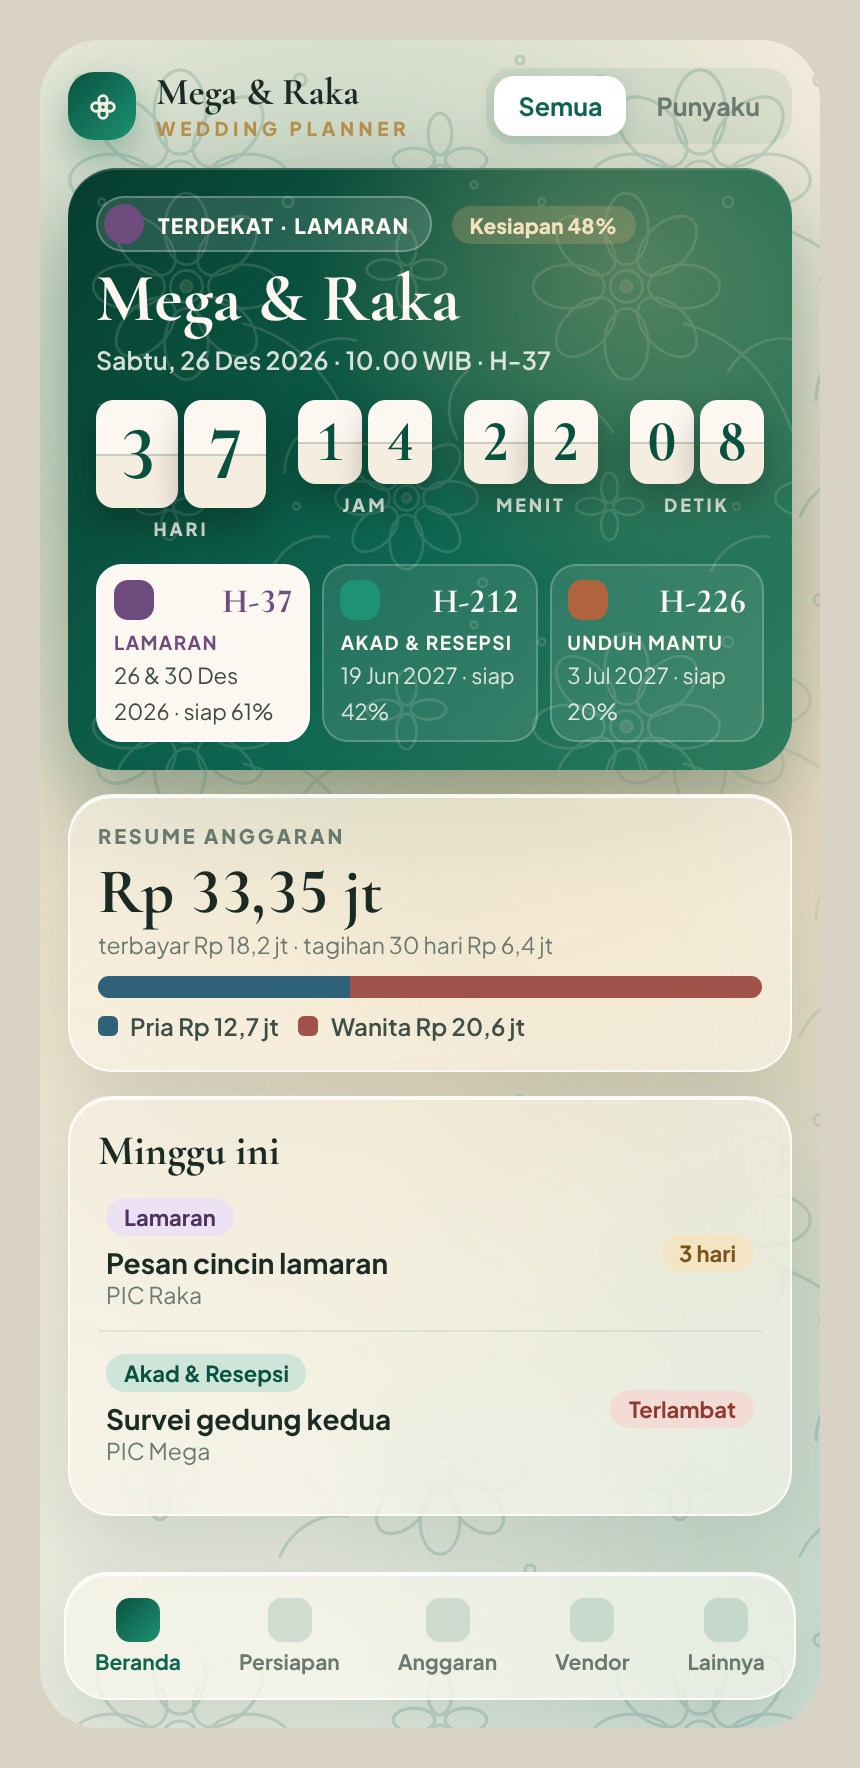
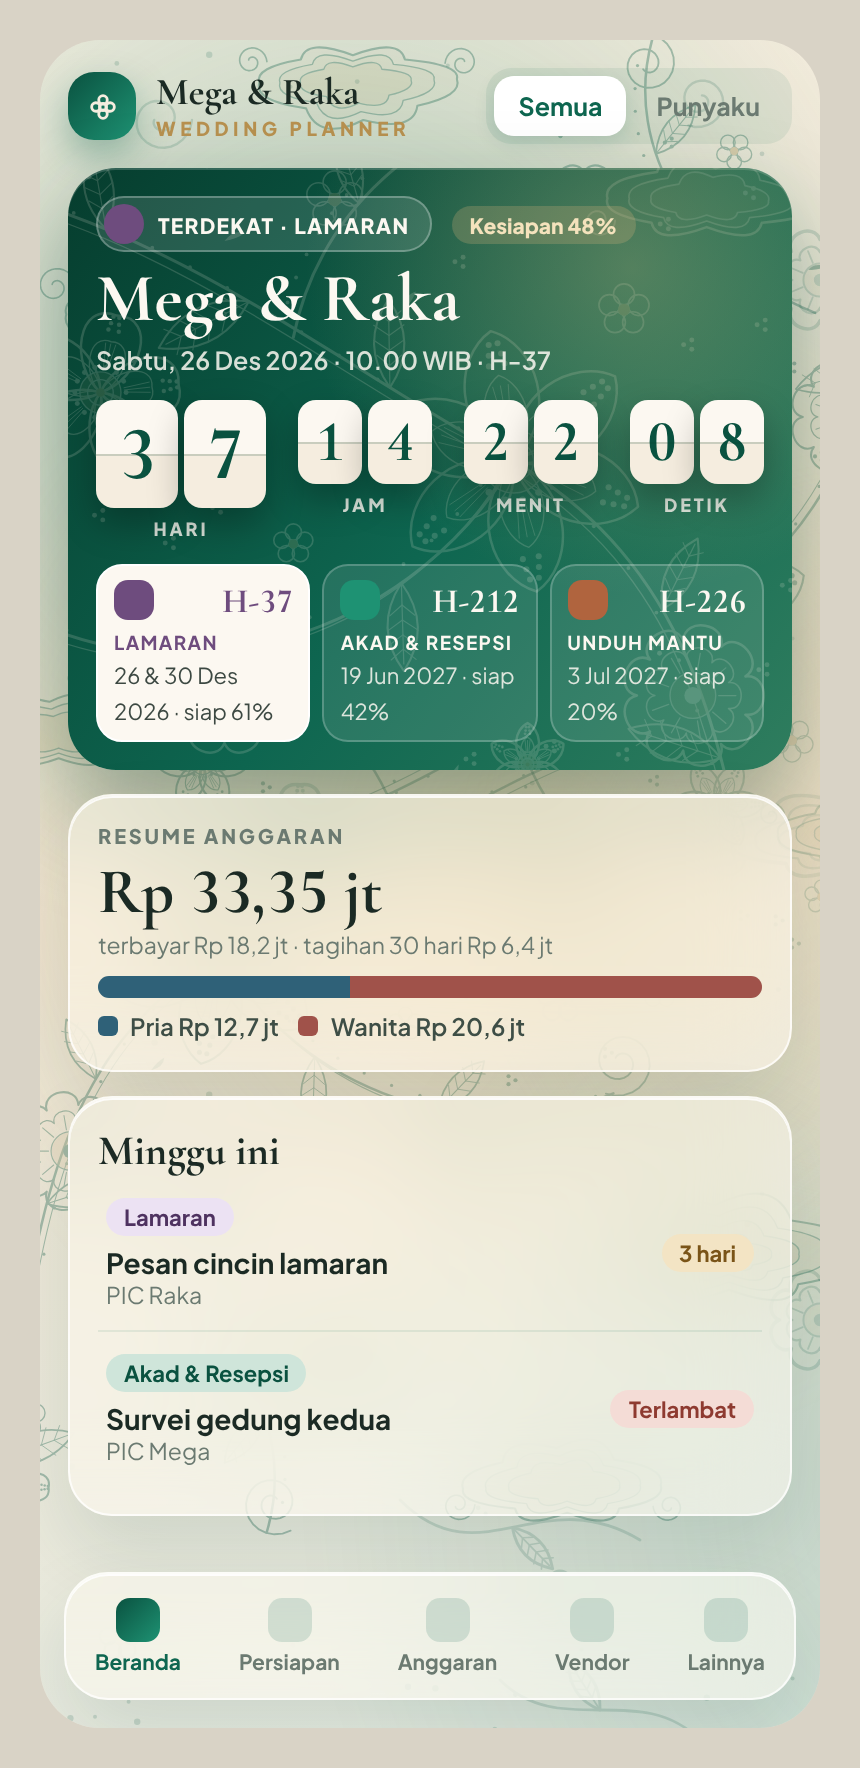
Mockup v5 Emerald: motif batik floral detail (mega mendung, sulur, bunga isen-isen)
Claude-Session: https://claude.ai/code/session_01FXbHuBUEcwiKtJ8siQhxjS

diff --git a/design-mockup/v5-emerald/emerald.css b/design-mockup/v5-emerald/emerald.css
@@ -14,8 +14,13 @@ body{margin:0;font-family:'Plus Jakarta Sans',system-ui,sans-serif;color:var(--i
 .app{position:relative;overflow:hidden;display:flex;gap:0;min-height:100%;
   background:linear-gradient(160deg,#F7F0E2 0%,#EFE5D2 45%,#E6EDE4 100%)}
 /* lapisan latar: motif batik → lapisan warna transparan */
-.app::before{content:"";position:absolute;inset:0;pointer-events:none;opacity:.17;
-  background-image:url("batik.svg");background-size:260px 260px}
+.app::before{content:"";position:absolute;inset:0;pointer-events:none;opacity:.16;
+  background-image:url("batik.svg");background-size:520px 520px}
+/* ornamen floral besar di sudut (di bawah lapisan warna) */
+.orn{position:absolute;pointer-events:none;width:900px;height:900px;background:url("batik-ornamen.svg") no-repeat;background-size:contain;opacity:.32}
+.orn.bl{left:-60px;bottom:-80px}
+.orn.tr{right:-80px;top:-90px;transform:scale(-1,-1)}
+.ph .orn{width:520px;height:520px}.ph .orn.bl{left:-60px;bottom:40px}.ph .orn.tr{right:-90px;top:-60px}
 .layer{position:absolute;border-radius:50%;pointer-events:none;filter:blur(10px)}
 .l1{left:-160px;top:-140px;width:620px;height:620px;background:radial-gradient(circle,rgba(20,122,95,.30),transparent 68%)}
 .l2{right:-180px;top:80px;width:640px;height:640px;background:radial-gradient(circle,rgba(214,181,122,.38),transparent 68%)}
@@ -71,7 +76,7 @@ body{margin:0;font-family:'Plus Jakarta Sans',system-ui,sans-serif;color:var(--i
 /* hitung mundur */
 .hero{position:relative;overflow:hidden;border-radius:24px;color:var(--be0);padding:18px 22px;display:grid;grid-template-columns:minmax(0,1fr) auto minmax(250px,290px);gap:20px;align-items:center;
   background:linear-gradient(130deg,var(--em9) 0%,var(--em7) 55%,#2F7D5E 100%);box-shadow:0 20px 44px rgba(6,61,46,.35),inset 0 1px 0 rgba(255,255,255,.18)}
-.hero::before{content:"";position:absolute;inset:0;background-image:url("batik-light.svg");background-size:220px;opacity:.14;pointer-events:none}
+.hero::before{content:"";position:absolute;right:-40px;top:-60px;width:620px;height:620px;transform:scale(-1,1);background:url("batik-ornamen-light.svg") no-repeat;background-size:contain;opacity:.16;pointer-events:none}
 .hero::after{content:"";position:absolute;right:-90px;top:-120px;width:340px;height:340px;border-radius:50%;background:radial-gradient(circle,rgba(214,181,122,.35),transparent 68%)}
 .hero>*{position:relative;z-index:1}
 .nx{display:inline-flex;align-items:center;gap:7px;border-radius:999px;padding:3px 10px 3px 3px;font-size:10.5px;font-weight:800;letter-spacing:.06em;background:rgba(255,255,255,.12);border:1px solid rgba(255,255,255,.28)}
@@ -100,7 +105,7 @@ body{margin:0;font-family:'Plus Jakarta Sans',system-ui,sans-serif;color:var(--i
 .acards{display:grid;grid-template-columns:repeat(3,minmax(0,1fr));gap:14px;align-items:start}
 .acard{border-radius:22px;overflow:hidden}
 .ah{padding:15px 17px;display:flex;flex-direction:column;gap:5px;position:relative}
-.ah::before{content:"";position:absolute;inset:0;background-image:url("batik.svg");background-size:180px;opacity:.12}
+.ah::before{content:"";position:absolute;right:-30px;top:-40px;width:260px;height:260px;transform:scale(-1,1);background:url("batik-ornamen.svg") no-repeat;background-size:contain;opacity:.16}
 .ah>*{position:relative}
 .ab{padding:13px 16px 16px;display:flex;flex-direction:column;gap:9px}
 .t-lam{background:linear-gradient(140deg,rgba(236,226,243,.92),rgba(206,186,222,.82));color:#3F2A4E}

diff --git a/design-mockup/v5-emerald/Beranda-desktop.html b/design-mockup/v5-emerald/Beranda-desktop.html
@@ -1,7 +1,7 @@
 <!doctype html><html lang="id"><head><meta charset="utf-8"><meta name="viewport" content="width=device-width,initial-scale=1">
 <title>Emerald · Beranda</title><link rel="preconnect" href="https://fonts.googleapis.com">
 <link href="https://fonts.googleapis.com/css2?family=Cormorant+Garamond:wght@600;700&family=Plus+Jakarta+Sans:wght@400;500;600;700;800&display=swap" rel="stylesheet">
-<link rel="stylesheet" href="emerald.css"></head><body><div class="app" style="width:1440px;min-height:1080px"><span class="layer l1"></span><span class="layer l2"></span><span class="layer l3"></span><span class="layer l4"></span><aside class="side glass">
+<link rel="stylesheet" href="emerald.css"></head><body><div class="app" style="width:1440px;min-height:1080px"><span class="orn tr"></span><span class="orn bl"></span><span class="layer l1"></span><span class="layer l2"></span><span class="layer l3"></span><span class="layer l4"></span><aside class="side glass">
 <div class="brand"><div class="logo"><svg width="20" height="20" viewBox="0 0 24 24" fill="none" stroke="currentColor" stroke-width="2" stroke-linecap="round" stroke-linejoin="round"><circle cx="12" cy="12" r="2.5"/><path d="M12 4a3 3 0 010 6 3 3 0 010-6zM12 14a3 3 0 010 6 3 3 0 010-6zM4 12a3 3 0 016 0 3 3 0 01-6 0zM14 12a3 3 0 016 0 3 3 0 01-6 0z"/></svg></div><div><div class="bn">Wedding Planner</div><div class="by">by Wanncch</div></div></div>
 <nav class="nav"><a class="on" href="#"><svg width="16" height="16" viewBox="0 0 24 24" fill="none" stroke="currentColor" stroke-width="2" stroke-linecap="round" stroke-linejoin="round"><path d="M3 11l9-7 9 7v9H3z"/></svg>Beranda</a></nav>
 <div class="between" style="padding:6px 8px 0"><span class="lbl">Acara</span><span class="mut"><svg width="14" height="14" viewBox="0 0 24 24" fill="none" stroke="currentColor" stroke-width="2" stroke-linecap="round" stroke-linejoin="round"><path d="M4 20l4-1 11-11-3-3L5 16z"/></svg></span></div>

diff --git a/design-mockup/v5-emerald/Anggaran-desktop.html b/design-mockup/v5-emerald/Anggaran-desktop.html
@@ -1,7 +1,7 @@
 <!doctype html><html lang="id"><head><meta charset="utf-8"><meta name="viewport" content="width=device-width,initial-scale=1">
 <title>Emerald · Anggaran</title><link rel="preconnect" href="https://fonts.googleapis.com">
 <link href="https://fonts.googleapis.com/css2?family=Cormorant+Garamond:wght@600;700&family=Plus+Jakarta+Sans:wght@400;500;600;700;800&display=swap" rel="stylesheet">
-<link rel="stylesheet" href="emerald.css"></head><body><div class="app" style="width:1440px;min-height:900px"><span class="layer l1"></span><span class="layer l2"></span><span class="layer l3"></span><span class="layer l4"></span><aside class="side glass">
+<link rel="stylesheet" href="emerald.css"></head><body><div class="app" style="width:1440px;min-height:900px"><span class="orn tr"></span><span class="orn bl"></span><span class="layer l1"></span><span class="layer l2"></span><span class="layer l3"></span><span class="layer l4"></span><aside class="side glass">
 <div class="brand"><div class="logo"><svg width="20" height="20" viewBox="0 0 24 24" fill="none" stroke="currentColor" stroke-width="2" stroke-linecap="round" stroke-linejoin="round"><circle cx="12" cy="12" r="2.5"/><path d="M12 4a3 3 0 010 6 3 3 0 010-6zM12 14a3 3 0 010 6 3 3 0 010-6zM4 12a3 3 0 016 0 3 3 0 01-6 0zM14 12a3 3 0 016 0 3 3 0 01-6 0z"/></svg></div><div><div class="bn">Wedding Planner</div><div class="by">by Wanncch</div></div></div>
 <nav class="nav"><a href="#"><svg width="16" height="16" viewBox="0 0 24 24" fill="none" stroke="currentColor" stroke-width="2" stroke-linecap="round" stroke-linejoin="round"><path d="M3 11l9-7 9 7v9H3z"/></svg>Beranda</a></nav>
 <div class="between" style="padding:6px 8px 0"><span class="lbl">Acara</span><span class="mut"><svg width="14" height="14" viewBox="0 0 24 24" fill="none" stroke="currentColor" stroke-width="2" stroke-linecap="round" stroke-linejoin="round"><path d="M4 20l4-1 11-11-3-3L5 16z"/></svg></span></div>

diff --git a/design-mockup/v5-emerald/Beranda-hp.html b/design-mockup/v5-emerald/Beranda-hp.html
@@ -1,7 +1,7 @@
 <!doctype html><html lang="id"><head><meta charset="utf-8"><meta name="viewport" content="width=device-width,initial-scale=1">
 <title>Emerald · HP</title><link rel="preconnect" href="https://fonts.googleapis.com">
 <link href="https://fonts.googleapis.com/css2?family=Cormorant+Garamond:wght@600;700&family=Plus+Jakarta+Sans:wght@400;500;600;700;800&display=swap" rel="stylesheet">
-<link rel="stylesheet" href="emerald.css"></head><body><div style="padding:20px;background:#d9d3c6;display:inline-block"><div class="app ph"><span class="layer l1"></span><span class="layer l2"></span><span class="layer l3"></span><span class="layer l4"></span><main class="main">
+<link rel="stylesheet" href="emerald.css"></head><body><div style="padding:20px;background:#d9d3c6;display:inline-block"><div class="app ph"><span class="orn tr"></span><span class="orn bl"></span><span class="layer l1"></span><span class="layer l2"></span><span class="layer l3"></span><span class="layer l4"></span><main class="main">
 <div class="between"><div class="row"><div class="logo" style="width:34px;height:34px"><svg width="17" height="17" viewBox="0 0 24 24" fill="none" stroke="currentColor" stroke-width="2" stroke-linecap="round" stroke-linejoin="round"><circle cx="12" cy="12" r="2.5"/><path d="M12 4a3 3 0 010 6 3 3 0 010-6zM12 14a3 3 0 010 6 3 3 0 010-6zM4 12a3 3 0 016 0 3 3 0 01-6 0zM14 12a3 3 0 016 0 3 3 0 01-6 0z"/></svg></div><div><div class="bn" style="font-size:19px">Mega &amp; Raka</div><div class="by">Wedding Planner</div></div></div><span class="seg"><b class="on">Semua</b><b>Punyaku</b></span></div>
 <section class="hero">
 <div><div class="row"><span class="nx"><i></i>TERDEKAT · LAMARAN</span><span class="rdy">Kesiapan 48%</span></div>

diff --git a/design-mockup/v5-emerald/batik_gen.py b/design-mockup/v5-emerald/batik_gen.py
@@ -1,0 +1,159 @@
+import math, random, sys
+OUT = sys.argv[1]
+def f(x): return f'{x:.1f}'
+class S:
+    def __init__(s, line, acc): s.o=[]; s.line=line; s.acc=acc
+    def add(s, x): s.o.append(x)
+def rot(x,y,a,cx=0,cy=0):
+    c,si=math.cos(a),math.sin(a); return cx+x*c-y*si, cy+x*si+y*c
+def petal_path(cx,cy,ang,L,W,shape='point'):
+    pts=[(0,0),(W,-L*.30),(W*.75,-L*.85),(0,-L),(-W*.75,-L*.85),(-W,-L*.30),(0,0)] if shape=='point' else [(0,0),(W*1.05,-L*.25),(W*1.15,-L*1.0),(0,-L*.92),(-W*1.15,-L*1.0),(-W*1.05,-L*.25),(0,0)]
+    p=[rot(x,y,ang,cx,cy) for x,y in pts]
+    return f'M{f(p[0][0])} {f(p[0][1])}C{f(p[1][0])} {f(p[1][1])} {f(p[2][0])} {f(p[2][1])} {f(p[3][0])} {f(p[3][1])}C{f(p[4][0])} {f(p[4][1])} {f(p[5][0])} {f(p[5][1])} {f(p[6][0])} {f(p[6][1])}Z'
+def flower(s,cx,cy,R,n=6,rot0=0,shape='point'):
+    a0=math.radians(rot0)
+    for i in range(n):
+        a=a0+2*math.pi*i/n
+        s.add(f'<path d="{petal_path(cx,cy,a,R,R*.42,shape)}" stroke-width="1.8"/>')
+        s.add(f'<path d="{petal_path(cx,cy,a,R*.66,R*.25,shape)}" stroke-width="1"/>')
+        for t in (.74,.82,.9):  # titik isen-isen di ujung kelopak
+            for side in (-1,1):
+                x,y=rot(side*R*.17*(1.1-t),-R*t,a,cx,cy); s.add(f'<circle cx="{f(x)}" cy="{f(y)}" r="{R*.018+.5:.1f}" fill="{s.line}" stroke="none"/>')
+        for sd in (-.5,0,.5):
+            p1=rot(sd*R*.05,-R*.28,a,cx,cy); p2=rot(sd*R*.12,-R*.58,a,cx,cy)
+            s.add(f'<path d="M{f(p1[0])} {f(p1[1])}L{f(p2[0])} {f(p2[1])}" stroke-width=".7"/>')
+    s.add(f'<circle cx="{f(cx)}" cy="{f(cy)}" r="{f(R*.24)}" fill="{s.acc}" fill-opacity=".35"/>')
+    s.add(f'<circle cx="{f(cx)}" cy="{f(cy)}" r="{f(R*.15)}"/>')
+    for i in range(14):
+        a=2*math.pi*i/14; s.add(f'<circle cx="{f(cx+R*.3*math.cos(a))}" cy="{f(cy+R*.3*math.sin(a))}" r="{R*.02+.6:.1f}" fill="{s.line}" stroke="none"/>')
+    s.add(f'<circle cx="{f(cx)}" cy="{f(cy)}" r="{f(R*.05)}" fill="{s.acc}" stroke="none"/>')
+def scallop(s,cx,cy,R,n=8):
+    # bunga bergerigi (kelopak bulat berlapis)
+    pts=[]
+    for k,(rr,w) in enumerate(((R,1.8),(R*.68,1.1))):
+        d=''
+        for i in range(n):
+            a1=2*math.pi*i/n; a2=2*math.pi*(i+1)/n; am=(a1+a2)/2
+            x1,y1=cx+rr*.78*math.cos(a1),cy+rr*.78*math.sin(a1); x2,y2=cx+rr*.78*math.cos(a2),cy+rr*.78*math.sin(a2)
+            c1=(cx+rr*1.12*math.cos(am-.28),cy+rr*1.12*math.sin(am-.28)); c2=(cx+rr*1.12*math.cos(am+.28),cy+rr*1.12*math.sin(am+.28))
+            d+=(f'M{f(x1)} {f(y1)}' if i==0 else '')+f'C{f(c1[0])} {f(c1[1])} {f(c2[0])} {f(c2[1])} {f(x2)} {f(y2)}'
+        s.add(f'<path d="{d}Z" stroke-width="{w}"/>')
+    s.add(f'<circle cx="{f(cx)}" cy="{f(cy)}" r="{f(R*.32)}" fill="{s.acc}" fill-opacity=".3"/>')
+    for i in range(n):
+        a=2*math.pi*(i+.5)/n; s.add(f'<path d="M{f(cx+R*.36*math.cos(a))} {f(cy+R*.36*math.sin(a))}L{f(cx+R*.6*math.cos(a))} {f(cy+R*.6*math.sin(a))}" stroke-width=".9"/>')
+    s.add(f'<circle cx="{f(cx)}" cy="{f(cy)}" r="{f(R*.12)}" fill="{s.line}" stroke="none"/>')
+def floret(s,cx,cy,R):
+    for i in range(5):
+        a=2*math.pi*i/5-math.pi/2; s.add(f'<circle cx="{f(cx+R*.62*math.cos(a))}" cy="{f(cy+R*.62*math.sin(a))}" r="{f(R*.42)}" stroke-width="1.2"/>')
+    s.add(f'<circle cx="{f(cx)}" cy="{f(cy)}" r="{f(R*.24)}" fill="{s.acc}" stroke="none"/>')
+def leaf(s,x,y,ang,L,W,veins=True):
+    p=[rot(a,b,ang,x,y) for a,b in [(0,0),(W,-L*.5),(0,-L),(-W,-L*.5)]]
+    s.add(f'<path d="M{f(p[0][0])} {f(p[0][1])}Q{f(p[1][0])} {f(p[1][1])} {f(p[2][0])} {f(p[2][1])}Q{f(p[3][0])} {f(p[3][1])} {f(p[0][0])} {f(p[0][1])}Z" stroke-width="1.5"/>')
+    m=[rot(0,-L*t,ang,x,y) for t in (0,.92)]
+    s.add(f'<path d="M{f(m[0][0])} {f(m[0][1])}L{f(m[1][0])} {f(m[1][1])}" stroke-width=".9"/>')
+    if veins:
+        for t in (.25,.42,.59,.75):
+            for sd in (-1,1):
+                a1=rot(0,-L*t,ang,x,y); a2=rot(sd*W*.55*(1-abs(t-.5)),-L*(t+.12),ang,x,y)
+                s.add(f'<path d="M{f(a1[0])} {f(a1[1])}L{f(a2[0])} {f(a2[1])}" stroke-width=".8"/>')
+def spiral(s,cx,cy,R,a0,turns=1.6,dirn=1,w=1.6):
+    pts=[]; N=40
+    for i in range(N+1):
+        t=i/N; a=a0+dirn*t*turns*2*math.pi; r=R*(1-t*.82); pts.append((cx+r*math.cos(a),cy+r*math.sin(a)))
+    s.add(f'<path d="M'+' L'.join(f'{f(x)} {f(y)}' for x,y in pts)+f'" stroke-width="{w}"/>')
+def bez(p0,p1,p2,p3,t):
+    u=1-t; return (u**3*p0[0]+3*u*u*t*p1[0]+3*u*t*t*p2[0]+t**3*p3[0], u**3*p0[1]+3*u*u*t*p1[1]+3*u*t*t*p2[1]+t**3*p3[1])
+def vine(s,P,leaves=(),dots=True,w=2.2,double=True):
+    p0,p1,p2,p3=P
+    s.add(f'<path d="M{f(p0[0])} {f(p0[1])}C{f(p1[0])} {f(p1[1])} {f(p2[0])} {f(p2[1])} {f(p3[0])} {f(p3[1])}" stroke-width="{w}"/>')
+    if double:  # garis kedua tipis + titik di antaranya (khas batik)
+        off=[(x+5,y+5) for x,y in P]
+        s.add(f'<path d="M{f(off[0][0])} {f(off[0][1])}C{f(off[1][0])} {f(off[1][1])} {f(off[2][0])} {f(off[2][1])} {f(off[3][0])} {f(off[3][1])}" stroke-width=".9"/>')
+    for t,side,L in leaves:
+        x,y=bez(p0,p1,p2,p3,t); x2,y2=bez(p0,p1,p2,p3,min(1,t+.01))
+        ang=math.atan2(y2-y,x2-x)+math.pi/2+side*1.0
+        leaf(s,x,y,ang,L*1.6,L*.55)
+    if dots:
+        for i in range(2,30,2):
+            x,y=bez(p0,p1,p2,p3,i/30); s.add(f'<circle cx="{f(x+9)}" cy="{f(y-6)}" r="1.4" fill="{s.line}" stroke="none"/>')
+def cloud(s,cx,cy,W,H,levels=4):
+    # mega mendung: kontur berlekuk yang diulang mengecil ke tengah, ujung bawah melingkar
+    lobes=[(-1.0,.05,.42),(-.62,-.45,.5),(-.1,-.72,.58),(.45,-.5,.5),(.9,-.02,.42),(.5,.42,.36),(0,.5,.34),(-.5,.42,.36)]
+    def outline(k):
+        pts=[(cx+W*x,cy+H*y) for x,y,_ in lobes]
+        d=''
+        n=len(pts)
+        for i in range(n):
+            x1,y1=pts[i]; x2,y2=pts[(i+1)%n]
+            mx,my=(x1+x2)/2,(y1+y2)/2
+            dx,dy=mx-cx,my-cy; L=math.hypot(dx,dy) or 1
+            bulge=.55*math.hypot(x2-x1,y2-y1)
+            c=(mx+dx/L*bulge, my+dy/L*bulge)
+            if i==0: d+=f'M{f(x1)} {f(y1)}'
+            d+=f'Q{f(c[0])} {f(c[1])} {f(x2)} {f(y2)}'
+        return d+'Z'
+    for k in range(levels):
+        sc=1-k*.22
+        s.add(f'<g transform="translate({f(cx)} {f(cy)}) scale({sc:.2f}) translate({f(-cx)} {f(-cy)})"><path d="{outline(k)}" fill="{s.acc}" fill-opacity="{.08+.07*k:.2f}" stroke-width="{(1.8 if k==0 else 1.2)/sc:.2f}"/></g>')
+    spiral(s,cx-W*1.05,cy+H*.35,H*.32,0,1.4,1,1.4)
+    spiral(s,cx+W*.98,cy+H*.38,H*.3,math.pi,1.4,-1,1.4)
+def dotcluster(s,cx,cy,n=3,r=2.2):
+    for i in range(n):
+        a=2*math.pi*i/n; s.add(f'<circle cx="{f(cx+r*2.2*math.cos(a))}" cy="{f(cy+r*2.2*math.sin(a))}" r="{r}" fill="{s.line}" stroke="none"/>')
+def drop(s,x,y,ang,L):
+    p=[rot(a,b,ang,x,y) for a,b in [(0,0),(L*.35,-L*.6),(0,-L),(-L*.12,-L*.55)]]
+    s.add(f'<path d="M{f(p[0][0])} {f(p[0][1])}Q{f(p[1][0])} {f(p[1][1])} {f(p[2][0])} {f(p[2][1])}Q{f(p[3][0])} {f(p[3][1])} {f(p[0][0])} {f(p[0][1])}Z" fill="{s.line}" stroke="none"/>')
+
+def svg(w,h,s): return f'<svg xmlns="http://www.w3.org/2000/svg" width="{w}" height="{h}" viewBox="0 0 {w} {h}"><g fill="none" stroke="{s.line}" stroke-linecap="round" stroke-linejoin="round">'+''.join(s.o)+'</g></svg>'
+
+def ornament(line,acc):
+    """Rangkaian sudut 900x900 (mekar dari sudut kiri atas)."""
+    s=S(line,acc); random.seed(7)
+    # sulur utama
+    vine(s,[(20,880),(120,640),(60,420),(260,300)],leaves=[(.2,1,46),(.35,-1,40),(.55,1,44),(.75,-1,36)])
+    vine(s,[(260,300),(420,210),(520,120),(700,90)],leaves=[(.2,-1,40),(.45,1,46),(.7,-1,38)])
+    vine(s,[(260,300),(330,420),(480,470),(600,420)],leaves=[(.3,1,40),(.6,-1,36)])
+    vine(s,[(160,560),(260,600),(330,700),(300,800)],leaves=[(.35,-1,36),(.65,1,34)],double=False)
+    vine(s,[(420,210),(400,110),(320,60),(260,40)],leaves=[(.4,1,32)],double=False)
+    for (x,y,r,a,d) in [(700,90,34,0,1),(600,420,30,2,-1),(300,800,28,1,1),(260,40,22,3,-1),(20,880,0,0,1)]:
+        if r: spiral(s,x+r*.2,y-r*.9,r,a,1.7,d)
+    flower(s,260,300,96,6,10)
+    flower(s,560,250,62,5,-12,'round')
+    scallop(s,130,470,52,9)
+    scallop(s,470,470,44,8)
+    flower(s,690,170,40,6,30)
+    scallop(s,360,650,40,8)
+    flower(s,80,760,34,5,20,'round'); scallop(s,610,90,24,8); flower(s,250,520,30,6,0)
+    for (x,y,r) in [(390,110,20),(180,190,18),(640,330,16),(90,700,18),(230,700,15),(520,70,14),(780,250,14),(420,360,14)]:
+        floret(s,x,y,r)
+    cloud(s,700,560,120,60)
+    cloud(s,120,110,80,40,3)
+    cloud(s,560,760,90,46,3)
+    for i in range(40):
+        x,y=random.uniform(30,860),random.uniform(30,860)
+        if x+y<1100: dotcluster(s,x,y,3,1.8)
+    for (x,y,a) in [(340,190,-.6),(200,400,.8),(620,480,2),(470,140,-1.2),(150,600,1.4),(780,140,.4),(300,520,2.6)]:
+        drop(s,x,y,a,16)
+    return svg(900,900,s)
+
+def tile(line,acc):
+    """Ubin 520 isen-isen: awan kecil, bunga kecil, titik & sulur pendek (lebih jarang)."""
+    s=S(line,acc); random.seed(3)
+    cloud(s,130,150,62,32,3)
+    cloud(s,400,400,54,28,3)
+    scallop(s,390,120,26,8)
+    flower(s,130,400,30,5,0,'round')
+    floret(s,260,260,14); floret(s,470,260,10); floret(s,40,280,10); floret(s,260,480,11)
+    for P in [[(180,210),(220,250),(250,200),(300,230)],[(330,330),(300,300),(260,330),(230,300)],[(440,150),(480,190),(470,230),(500,240)]]:
+        vine(s,P,leaves=[(.5,1,18)],dots=False,w=1.4,double=False)
+    spiral(s,60,40,16,0,1.5,1,1.2); spiral(s,330,30,14,2,1.5,-1,1.2); spiral(s,480,480,14,1,1.5,1,1.2)
+    for i in range(70):
+        x,y=random.uniform(5,515),random.uniform(5,515)
+        s.add(f'<circle cx="{f(x)}" cy="{f(y)}" r="{random.choice((1,1.2,1.6))}" fill="{line}" stroke="none"/>')
+    return svg(520,520,s)
+
+import os
+open(os.path.join(OUT,'batik-ornamen.svg'),'w').write(ornament('#0B5843','#B8914F'))
+open(os.path.join(OUT,'batik.svg'),'w').write(tile('#0B5843','#B8914F'))
+open(os.path.join(OUT,'batik-light.svg'),'w').write(tile('#F5EDDF','#D6B57A'))
+open(os.path.join(OUT,'batik-ornamen-light.svg'),'w').write(ornament('#F5EDDF','#D6B57A'))
